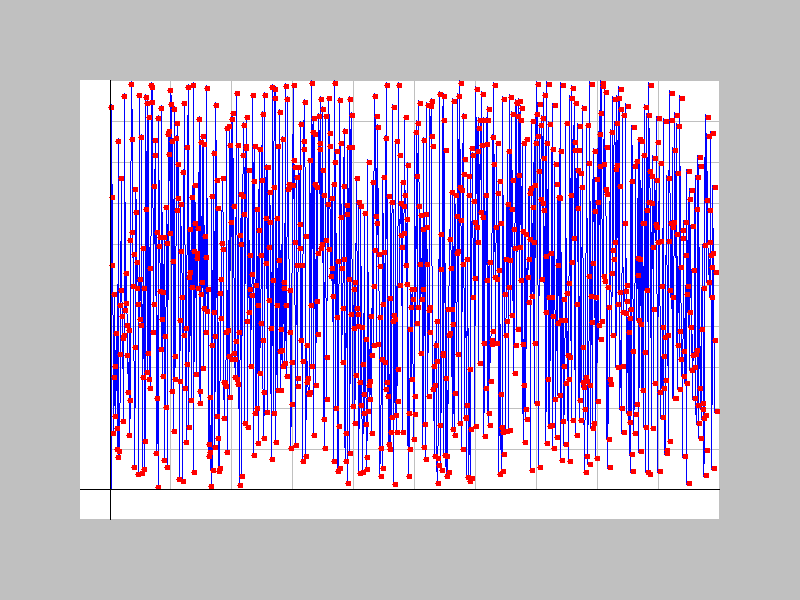
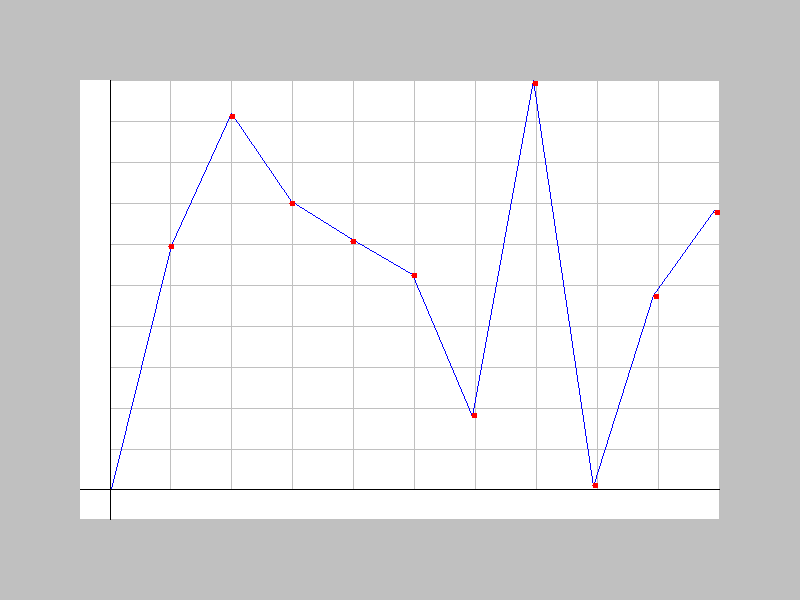
novos metodos

Changed region(s): [[0.125, 0.12, 0.9062, 0.81]]

diff --git a/src/Util/ImageU.java b/src/Util/ImageU.java
@@ -11,39 +11,46 @@ import java.util.Random;
 
 public class ImageU {
 
-    int x0 = 0;
-    int x1 = 0;
-    int y0 = 0;
-    int y1 = 0;
+    double x0;
+    double x1;
+    double y0;
+    double y1;
 
-    int oix;
-    int ofx;
-    int dix;
-    int dfx;
+    double x;
+    double oix;
+    double ofx;
+    double dix;
+    double dfx;
+    double pxr;
 
-    int oiy;
-    int ofy;
-    int diy;
-    int dfy;
+    double y;
+    double oiy;
+    double ofy;
+    double diy;
+    double dfy;
+    double pyr;
 
-    List<Double> result;
-    List<Point> linhasP;
+    double porcentagem;
 
     BufferedImage report;
     Graphics2D render;
-    PixelCalc pc;
-    double porcentagem = 0;
+    PixelCalc pixelcalc;
 
-    public ImageU(PixelCalc pc) {
-        this.pc = pc;
+    List<Double> auxList;
+    List<Point> pontos;
+
+
+
+    public ImageU(PixelCalc pixelcalc) {
+        this.pixelcalc = pixelcalc;
     }
 
     public void background() {
-        if (pc.getPixels_width() == null && pc.getPixels_height() == null) {
-            pc = new PixelCalc();
-            pc.defaultImage();
+        if (pixelcalc.getPixels_width() == null && pixelcalc.getPixels_height() == null) {
+            pixelcalc = new PixelCalc();
+            pixelcalc.defaultImage();
         }
-        report = new BufferedImage(pc.getPixels_width(), pc.getPixels_height(), BufferedImage.TYPE_INT_RGB);
+        report = new BufferedImage(pixelcalc.getPixels_width(), pixelcalc.getPixels_height(), BufferedImage.TYPE_INT_RGB);
         render = (Graphics2D) report.getGraphics();
         render.setColor(Color.lightGray);
         render.fillRect(0, 0, report.getWidth(), report.getHeight());
@@ -55,29 +62,40 @@ public class ImageU {
 
     public void universoPlotavel() {
         this.porcentagem = 0.05;
-        x0 = (int) margem();
-        x1 = report.getWidth() - 1 - (int) margem();
-        y0 = (int) margem();
-        y1 = report.getHeight() - 1 - (int) margem();
+        x0 = margem();
+        x1 = report.getWidth() - 1 - margem();
+        y0 = margem();
+        y1 = report.getHeight() - 1 - margem();
 
         render.setColor(Color.WHITE);
-        render.fillRect(x0, y0, x1 - x0, y1 - y0);
+        render.fillRect((int) x0, (int) y0, (int) x1 - (int) x0, (int) y1 - (int) y0);
     }
 
-    public void valoresSaida() {
-        result = new ArrayList<>();
+    public List<Double> valoresSaida() {
+        auxList = new ArrayList<>();
         Random random = new Random();
-        result.add(0.0);
+        auxList.add(0.0);
         int eixoX = 10;
         int eixoY = 10;
         for (int i = 1; i < eixoX + 1; i++) {
-            result.add((random.nextDouble() * eixoY));
+            auxList.add((random.nextDouble() * eixoY));
         }
+        return auxList;
     }
 
     public void criaGrade() {
+        
+        Stroke oldStroke = render.getStroke();
+        float[] dash = { 2f, 0f, 2f };
+        BasicStroke bs = new BasicStroke(1, BasicStroke.CAP_BUTT, BasicStroke.JOIN_ROUND, 1.0f, dash, 2f);
+        render.setStroke(bs);
 
-        int linhaY[] = new int[]{0, 1, 2, 3, 4, 5, 6, 7, 8, 9, 10};
+        auxList = new ArrayList<>();
+        double count = 0;
+        for(int aux = 0; aux < 10; aux++){
+            count++;
+            auxList.add(count);
+                    }
 
         porcentagem = 0.1;
 
@@ -91,57 +109,144 @@ public class ImageU {
         diy = y0;
         dfy = (int) (y1 - margem());
 
-        for (int i = 0; i < linhaY.length; i++) {
-            int x2 = linhaY[i];
-            int pxr = ((x2 - oix) * (dfx - dix) / (ofx - oix)) + dix;
+        for (int i = 0; i < auxList.size(); i++) {
+            x = auxList.get(i);
+            mapeamentoX();
 
-            for (int a = 0; a < linhaY.length + 1; a++) {
+            for (int a = 0; a < auxList.size() + 1; a++) {
                 render.setColor(Color.lightGray);
-                render.drawLine(pxr, (int) (y1 - margem()), pxr, y0);
+                render.drawLine((int) pxr, (int) (y1 - margem()), (int) pxr, (int) y0);
             }
         }
 
-        for (int j = 0; j < linhaY.length; j++) {
-            int y2 = linhaY[j];
-            int pyr = ((y2 - ofy) * (diy - dfy) / (oiy - ofy)) + dfy;
+        for (int j = 0; j < auxList.size(); j++) {
+            y = auxList.get(j);
+            mapeamentoY();
 
 
-            for (int i = 0; i < linhaY.length + 1; i++) {
+            for (int i = 0; i < auxList.size() + 1; i++) {
                 render.setColor(Color.lightGray);
-                render.drawLine((int) (x0 + margem()), pyr, x1, pyr);
+                render.drawLine((int) (x0 + margem()), (int) pyr, (int) x1, (int) pyr);
             }
         }
+        render.setStroke(oldStroke);
     }
 
     public double getMaxValue() {
         double max = 0.0;
-        for (int i = 1; i < result.size(); i++) {
-            if (result.get(i) > max) {
-                max = result.get(i);
+        for (int i = 1; i < auxList.size(); i++) {
+            if (auxList.get(i) > max) {
+                max = auxList.get(i);
             }
         }
         return max;
     }
 
-    public void mapeamento (){
-
+    public void mapeamentoX (){
+            pxr = ((x - oix) * (dfx - dix) / (ofx - oix)) + dix;
     }
 
-    // TODO: 30/09/2021 getmimvalue
+    public void mapeamentoY (){
+        pyr = ((y - ofy) * (diy - dfy) / (oiy - ofy)) + dfy;
+    }
+
+    public void linhasEntrePontos () {
+        pontos = new ArrayList<>();
+        valoresSaida();
+        System.out.println(valoresSaida());
+
+        porcentagem = 0.1;
+
+        oix = 0;
+        ofx = auxList.size() - 1;
+        dix = (int) (x0 + margem() + 1);
+        dfx = x1 ;
+
+        oiy = (int) getMaxValue();
+        ofy = 0;
+        diy = y0 + margem();
+        dfy = (int) (y1 - margem());
 
 
+        for (int i = 0; i < auxList.size(); i++) {
+            x = i;
+            mapeamentoX();
 
-    public void criaImagem() {
-        background();
-        universoPlotavel();
-        criaGrade();
+            // System.out.println(Prx);
+            for (int j = 0; j < auxList.size(); j++) {
+                y =  auxList.get(i);
+                mapeamentoY();
+                pontos.add(new Point((int) pxr, (int) pyr));
+            }
+        }
+
+        for (int a = 0; a < pontos.size() - 1; a++) {
+            render.setColor(Color.blue);
+            render.drawLine(pontos.get(a).x, pontos.get(a).y, pontos.get(a + 1).x, pontos.get(a + 1).y);
+        }
+    }
+
+    public void criaPontos(){
+
+        porcentagem = 0.1;
+
+        oix = 0;
+        ofx = auxList.size() - 1;
+        dix = (int) (x0 + margem() -2);
+        dfx = x1 - 5;
+
+        oiy = (int) getMaxValue();
+        ofy = 0;
+        diy = y0 + margem();
+        dfy = (int) (y1 - 4 - margem());
 
 
+        for (int i = 1; i < auxList.size(); i++) {
+            x = i;
+            mapeamentoX();
+
+            // System.out.println(Prx);
+            for (int j = 0; j < auxList.size(); j++) {
+                y = auxList.get(i);
+                mapeamentoY();
+
+                render.setColor(Color.RED);
+                render.fillOval((int) pxr, (int) pyr, 6, 6);
+            }
+        }
+    }
+
+    public void eixoXY(){
+        porcentagem = 0.1;
+
+        render.setColor(Color.BLACK);
+        render.drawLine((int) x0, (int) y1 - (int) margem(), (int)x1, (int) y1 - (int) margem()); //eixo Y
+        render.drawLine((int) x0 + (int)margem(), (int)y0, (int) x0 + (int) margem(), (int) y1); //eixo X
+    }
+
+    public void saveImage(){
         try {
             ImageIO.write(report, "PNG", new File("test.png"));
         } catch (IOException ioe) {
             ioe.printStackTrace();
         }
+    }
+
+    // TODO: 30/09/2021 getmimvalue
+
+
+    public void criaImagem() {
+        background();
+        universoPlotavel();
+
+
+        criaGrade();
+
+
+        linhasEntrePontos();
+        criaPontos();
+        eixoXY();
+        saveImage();
     }
 
 }

diff --git a/src/main/main.java b/src/main/main.java
@@ -7,8 +7,8 @@ public class main {
 
         public static void main (String []args) {
 
-        PixelCalc pc = new PixelCalc();
-        ImageU iu = new ImageU(pc);
+        PixelCalc pixelcalc = new PixelCalc();
+        ImageU imageu = new ImageU(pixelcalc);
 //        pc.setPixelsWidth(800);
 //        pc.setPixelsHeight(600);
 //        pc.setPixelsWidth(600);
@@ -17,8 +17,8 @@ public class main {
 //                pc.setRatio(16,9);
 //                pc.setPixelsHeight(800);
 //        pc.proporcao();
-        pc.Dados();
-        iu.criaImagem();
+                pixelcalc.Dados();
+                imageu.criaImagem();
 
 
     }
